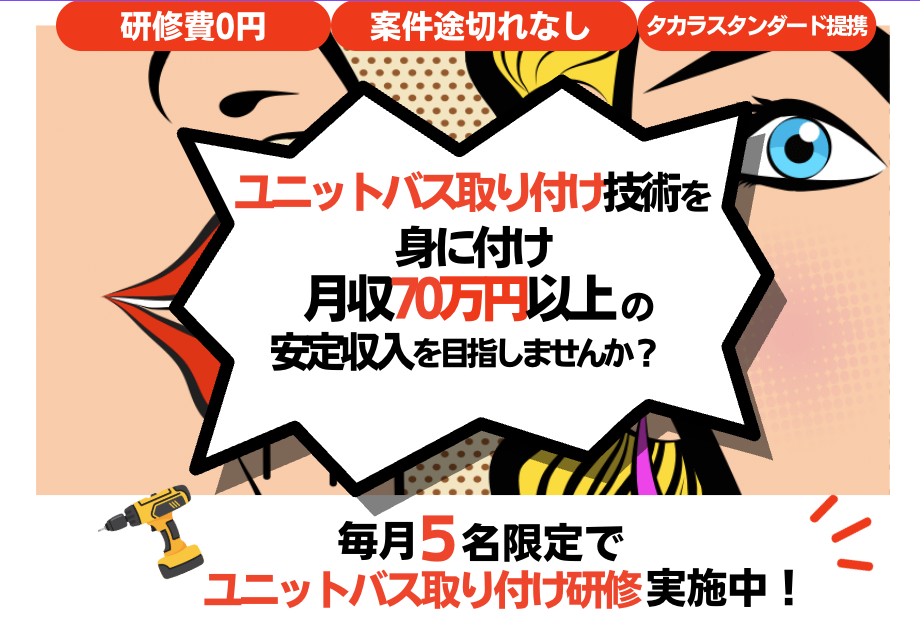
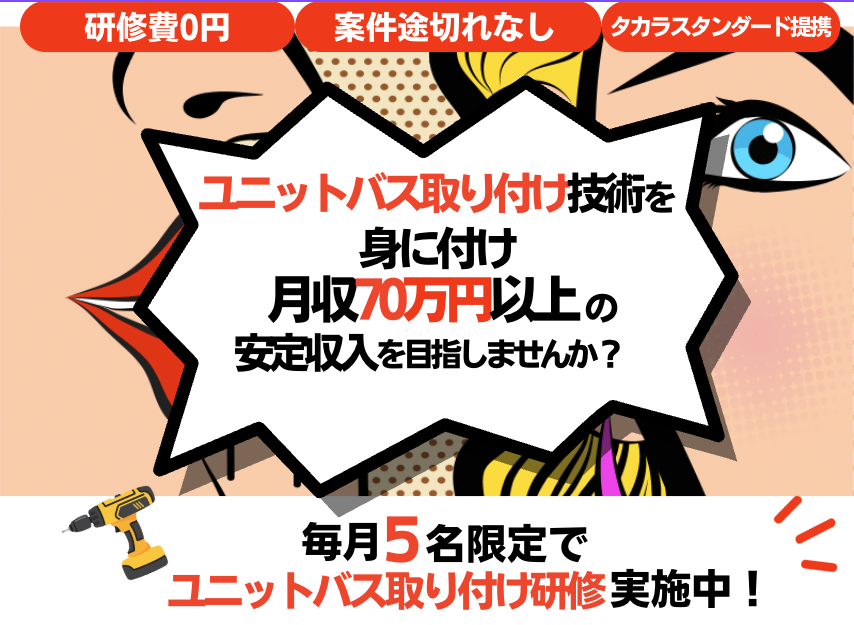
Update images with new screenshots

diff --git a/index.html b/index.html
@@ -235,24 +235,9 @@
             <img src="03_income_simulation.png" alt="収入シミュレーション - 週5日で月52〜70万円">
         </section>
         
-        <!-- 3つの安心ポイント① -->
+        <!-- 3つの安心ポイント + 三角形テキスト -->
         <section class="section">
-            <img src="04_point1.png" alt="研修費0円・収入ゼロ期間なし">
-        </section>
-        
-        <!-- 3つの安心ポイント② -->
-        <section class="section">
-            <img src="05_point2.png" alt="タカラスタンダード提携で営業・集客不要">
-        </section>
-        
-        <!-- 3つの安心ポイント③ -->
-        <section class="section">
-            <img src="06_point3.png" alt="元手がなくてもスタート可能">
-        </section>
-        
-        <!-- 三角形テキスト -->
-        <section class="section">
-            <img src="07_triangle_text.png" alt="LINEを友だち追加して研修の詳細をご確認ください！">
+            <img src="04_points_all.png" alt="3つの安心ポイント - 研修費0円・営業不要・元手なしでスタート可能">
         </section>
         
         <!-- CTA② -->
